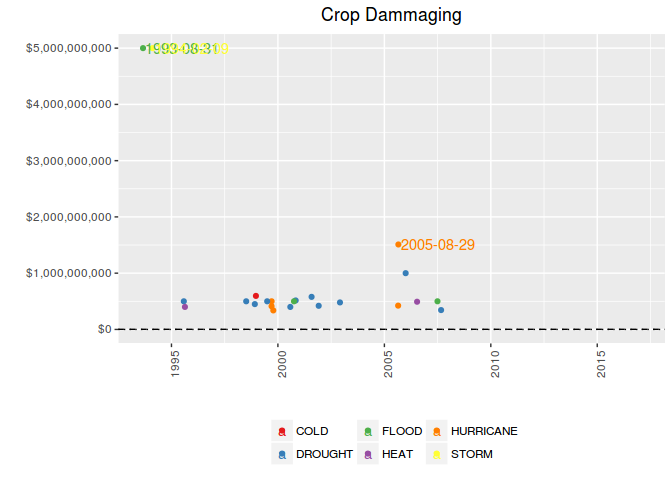
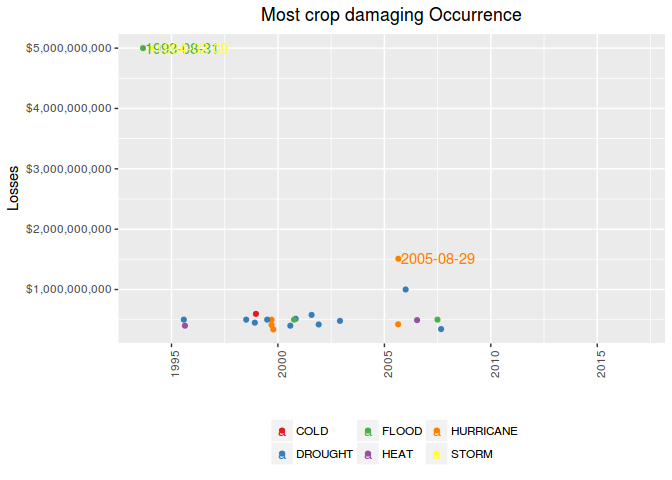
added labs and titles for plots out of grids

diff --git a/readme.md b/readme.md
@@ -338,7 +338,8 @@ Distribution plots
      
     plt.distr.fatal1 <- ggplot(fatal.df, aes(fatalities))
 
-    plt.distr.fatal1 <- plt.distr.fatal1 + geom_density(aes(y=..density..)) + xlim(0,qt[1]) + 
+    plt.distr.fatal1 <- plt.distr.fatal1 + geom_density(aes(y=..density..)) + 
+            xlim(0,(qt[1]/10)) + 
             labs(title="Fatal events") +
             theme(plot.title = element_text(hjust = 0.5))
 
@@ -478,8 +479,8 @@ In this study, we looked on the 1% deadliest occurrences.
                      paste0(as.character(day), ": ", fatalities, " killed") ,""),
                     hjust=-.03,vjust=0.5)) +
 
-            geom_hline(aes(yintercept = mean), linetype=2) +
-            geom_hline(aes(yintercept = median), linetype=3) +
+            # geom_hline(aes(yintercept = mean), linetype=2) +
+            # geom_hline(aes(yintercept = median), linetype=3) +
             labs(title="Most Fatal",
                         y="", x="") +
         
@@ -491,7 +492,8 @@ In this study, we looked on the 1% deadliest occurrences.
             theme(axis.text.x = element_text(angle = 90, hjust = 1)) + 
             theme(plot.title = element_text(hjust = 0.5))                 
 
-    plt.fatal.single
+    plt.fatal.single + labs(title="Most fatal Occurrence",
+                        y="Fatalities", x="")
 
 ![](readme_files/figure-markdown_strict/fatal-plot-single-1.png)
 
@@ -590,7 +592,7 @@ which are above the mean.
                     paste0(event, ": ", max(total), " killed"),'')),
                     hjust=0,vjust=2) +
             geom_hline(aes(yintercept = mean), linetype=1) +
-            geom_hline(aes(yintercept = median), linetype=2) +
+            # geom_hline(aes(yintercept = median), linetype=2) +
             labs(title="All time", y="",
                  x="") + 
                     
@@ -600,7 +602,8 @@ which are above the mean.
             theme(axis.text.x = element_text(angle = 90, hjust = 1)) + 
             theme(plot.title = element_text(hjust = 0.5))                 
 
-    plt.fatal.all                
+    plt.fatal.all + labs(title="Most fatal type of event - all time",
+                        y="Fatalities", x="")                
 
 ![](readme_files/figure-markdown_strict/fatal-plot-alltime-1.png)
 
@@ -747,7 +750,7 @@ Distribution plots
     # distribution plot
     plt.distr.inj1 <- ggplot(injuring.df, aes(injuries))
 
-    plt.distr.inj1 <- plt.distr.inj1 + geom_density(aes(y=..density..)) + xlim(0,qt[1]) + 
+    plt.distr.inj1 <- plt.distr.inj1 + geom_density(aes(y=..density..)) + xlim(0,(qt[1]/20)) + 
             labs(title="Injuring events") +
             theme(plot.title = element_text(hjust = 0.5))       
 
@@ -1008,8 +1011,8 @@ In this study, we looked on the 1% most injuring occurrences.
                      paste0(as.character(day), ": ", injuries, " injuried") ,""),
                     hjust=-.03,vjust=0.5)) +
 
-            geom_hline(aes(yintercept = mean), linetype=2) +
-            geom_hline(aes(yintercept = median), linetype=3) +
+            # geom_hline(aes(yintercept = mean), linetype=2) +
+            # geom_hline(aes(yintercept = median), linetype=3) +
             labs(title="Most Injuring",
                         y="", x="") +
                     
@@ -1021,9 +1024,14 @@ In this study, we looked on the 1% most injuring occurrences.
             theme(axis.text.x = element_text(angle = 90, hjust = 1)) + 
             theme(plot.title = element_text(hjust = 0.5)) 
 
-    plt.inj.single
+    plt.inj.single + labs(title="Most Injuring Occurrence",
+                        y="Injuries", x="") 
 
 ![](readme_files/figure-markdown_strict/injuring-single-plot-1.png)
+
+            # scale_y_continuous(expand = c(0, 0)) +
+            # geom_hline(aes(yintercept = mean), linetype=2) +
+            # geom_hline(aes(yintercept = median), linetype=3)
 
 The single most injuring event was a **TORNADO, that occurred in TX,
 WICHITA, on 1979-04-10, injuring 1700 people.**
@@ -1124,7 +1132,7 @@ The most injuring event along the time is the **TORNADO. It has injuried
                     paste0(event, ": ", max(total), " injuried"),'')),
                     hjust=0,vjust=2) +
             geom_hline(aes(yintercept = mean), linetype=1) +
-            geom_hline(aes(yintercept = median), linetype=2) +
+            # geom_hline(aes(yintercept = median), linetype=2) +
             labs(title="All time", 
                  y="", x="") + 
                     
@@ -1135,7 +1143,8 @@ The most injuring event along the time is the **TORNADO. It has injuried
             theme(plot.title = element_text(hjust = 0.5))                 
                     
 
-    plt.inj.all
+    plt.inj.all  + labs(title="Most Injuring type of event - all time",
+                        y="Injuries", x="")
 
 ![](readme_files/figure-markdown_strict/injuring-all-plot-1.png)
 
@@ -1586,8 +1595,8 @@ In this study, we looked on the 1% most harmful occurrences.
             geom_text(aes(label=ifelse(rank <= 3,
                     as.character(day),""),
                     hjust=-.03,vjust=0.5)) +
-            geom_hline(aes(yintercept = media.raw), linetype=2) +
-             geom_hline(aes(yintercept = mediana.raw), linetype=3) +
+            # geom_hline(aes(yintercept = media.raw), linetype=2) +
+             # geom_hline(aes(yintercept = mediana.raw), linetype=3) +
             labs(title="Property Dammaging",
                         y="", x="") + 
                     
@@ -1601,7 +1610,8 @@ In this study, we looked on the 1% most harmful occurrences.
             theme(axis.text.x = element_text(angle = 90, hjust = 1)) + 
             theme(plot.title = element_text(hjust = 0.5)) 
 
-    plt.prop.single
+    plt.prop.single + labs(title="Most property damaging Occurrence",
+                        y="Losses", x="")
 
 ![](readme_files/figure-markdown_strict/prop-single-plot-1.png)
 
@@ -1710,7 +1720,7 @@ which are above the mean.
                     paste(event, dollar(max(total.raw)), sep=": "),'')),
                     hjust=0,vjust=2) +
             geom_hline(aes(yintercept = media.raw), linetype=1) +
-            geom_hline(aes(yintercept = mediana.raw), linetype=2) +
+            # geom_hline(aes(yintercept = mediana.raw), linetype=2) +
             labs(title="All time", y="", x="") + 
                     
             scale_y_continuous(labels = dollar)+
@@ -1721,7 +1731,8 @@ which are above the mean.
             theme(axis.text.x = element_text(angle = 90, hjust = 1)) + 
             theme(plot.title = element_text(hjust = 0.5))                 
 
-    plt.prop.all  
+    plt.prop.all + labs(title="Most property damaging type of event - all time",
+                        y="Losses", x="")
 
 ![](readme_files/figure-markdown_strict/prop-all-plot-1.png)
 
@@ -2194,8 +2205,8 @@ In this study, we looked on the 1% most harmful occurrences.
             geom_text(aes(label=ifelse(rank <= 3,
                     as.character(day),""),
                     hjust=-.03,vjust=0.5)) +
-            geom_hline(aes(yintercept = media.raw), linetype=2) +
-            geom_hline(aes(yintercept = mediana.raw), linetype=3) +
+            # geom_hline(aes(yintercept = media.raw), linetype=2) +
+            # geom_hline(aes(yintercept = mediana.raw), linetype=3) +
             labs(title="Crop Dammaging",
                         y="", x="") + 
                     
@@ -2209,7 +2220,8 @@ In this study, we looked on the 1% most harmful occurrences.
             theme(axis.text.x = element_text(angle = 90, hjust = 1)) + 
             theme(plot.title = element_text(hjust = 0.5)) 
 
-    plt.crop.single
+    plt.crop.single + labs(title="Most crop damaging Occurrence",
+                        y="Losses", x="")
 
 ![](readme_files/figure-markdown_strict/crop-single-plot-1.png)
 
@@ -2318,7 +2330,7 @@ which are above the mean.
                     paste(event, dollar(max(total.raw)), sep=": "),'')),
                     hjust=0,vjust=2) +
             geom_hline(aes(yintercept = media.raw), linetype=1) +
-            geom_hline(aes(yintercept = mediana.raw), linetype=2) +
+            # geom_hline(aes(yintercept = mediana.raw), linetype=2) +
             labs(title="All time", y="", x="") + 
                     
             scale_y_continuous(labels = dollar)+
@@ -2329,7 +2341,8 @@ which are above the mean.
             theme(axis.text.x = element_text(angle = 90, hjust = 1)) + 
             theme(plot.title = element_text(hjust = 0.5))                 
 
-    plt.crop.all  
+    plt.crop.all + labs(title="Most crops damaging type of event - all time",
+                        y="Losses", x="")
 
 ![](readme_files/figure-markdown_strict/crop-all-plot-1.png)
 
